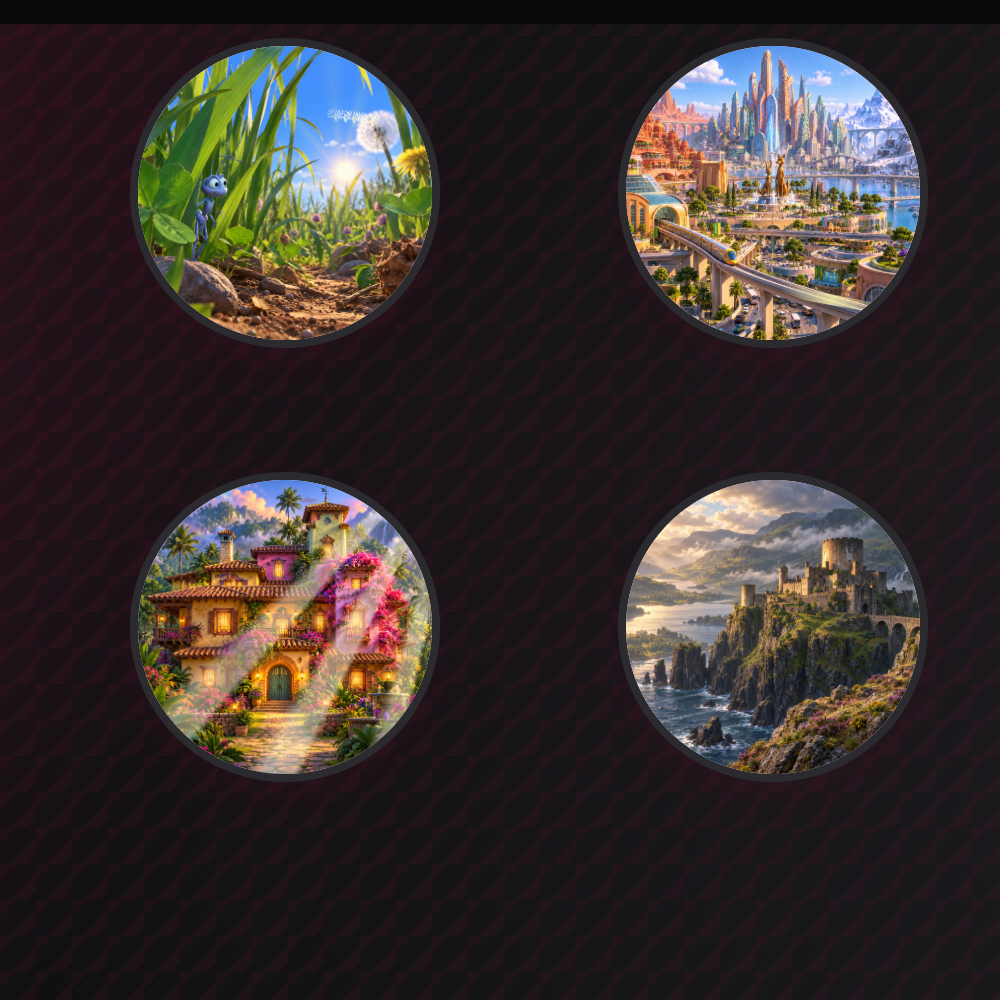
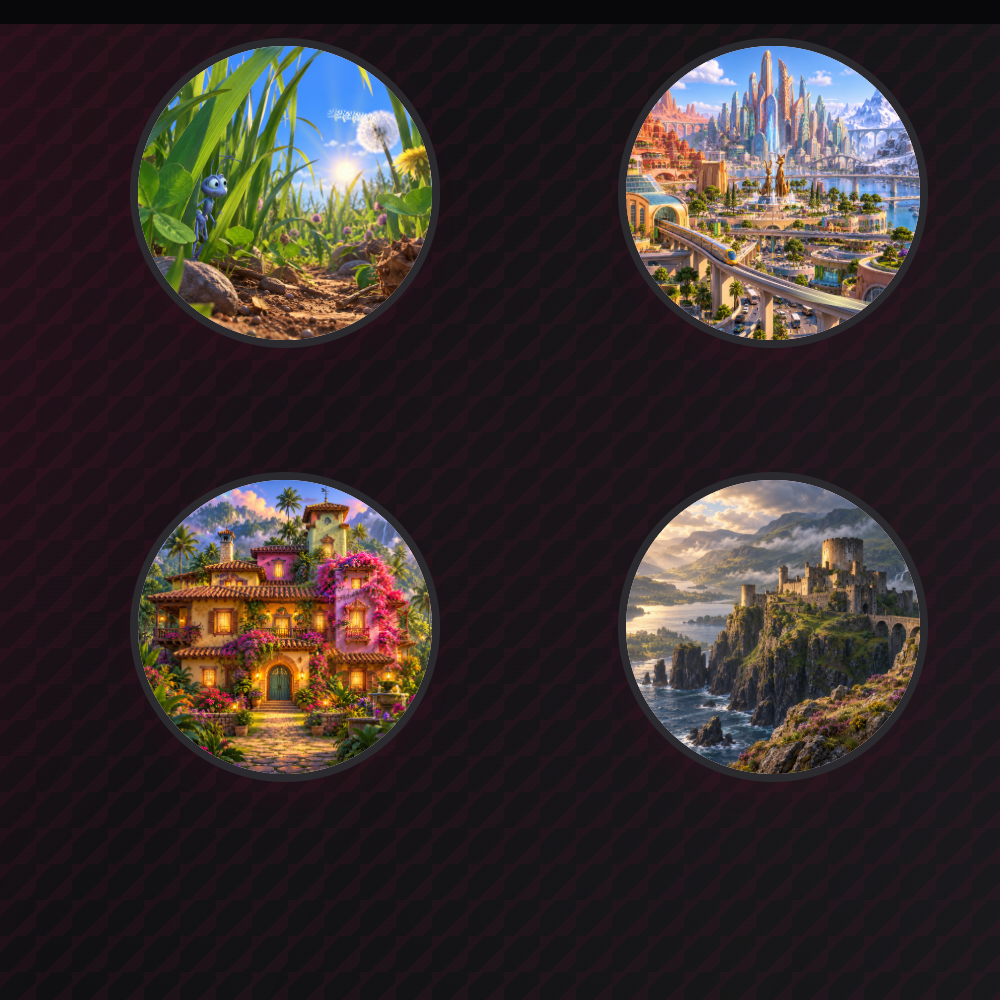
Soften Encanto sun rays and shift lighting to warm gold

Changed region(s): [[0.155, 0.496, 0.434, 0.775]]

diff --git a/scene-motion-tuning.css b/scene-motion-tuning.css
@@ -11,9 +11,9 @@
 
 /* Casita's warm light stays anchored to the painted window openings. */
 .scene-disney-casita .disney-light { background:radial-gradient(ellipse 3.5% 5% at 30% 48%,#fff0af,#ffca6399 40%,transparent),radial-gradient(ellipse 3% 3% at 49% 49%,#fff0af,#ffca6399 40%,transparent),radial-gradient(ellipse 3% 4% at 61% 48%,#fff0af,#ffca6399 40%,transparent),radial-gradient(ellipse 3.5% 5% at 73% 48%,#fff0af,#ffca6399 40%,transparent),radial-gradient(ellipse 2.5% 4% at 25.5% 66%,#fff0af,#ffca6399 40%,transparent),radial-gradient(ellipse 3% 4% at 73% 67%,#fff0af,#ffca6399 40%,transparent),radial-gradient(ellipse 2.5% 3.5% at 48% 31.5%,#fff0af,#ffca6399 40%,transparent),radial-gradient(ellipse 2% 3% at 64% 25%,#fff0af,#ffca6399 40%,transparent),radial-gradient(ellipse 2% 2.5% at 73% 36%,#fff0af,#ffca6399 40%,transparent); mix-blend-mode:screen; animation:casita-window-warmth 4s ease-in-out infinite alternate; }
-.scene-disney-casita .disney-detail { background:conic-gradient(from 180deg at 110% -18%,transparent 0deg 14deg,#fff6dbe6 15deg 18deg,transparent 20deg 28deg,#fff5d9f2 29deg 33deg,transparent 35deg 43deg,#ffeecbe6 44deg 48deg,transparent 50deg); mask-image:linear-gradient(#000 0%,#000 60%,#000b3 82%,transparent 100%); mix-blend-mode:normal; transform-origin:110% -18%; animation:casita-offscreen-rays 6s ease-in-out infinite alternate; }
+.scene-disney-casita .disney-detail { background:conic-gradient(from 180deg at 110% -18%,transparent 0deg 14deg,#efb94f99 16deg 17deg,transparent 20deg 28deg,#f5c45da6 30deg 32deg,transparent 35deg 43deg,#eeb34b99 45deg 47deg,transparent 50deg); mask-image:linear-gradient(#000 0%,#000 45%,#0008 70%,transparent 95%); mix-blend-mode:normal; opacity:.2; transform-origin:110% -18%; animation:casita-offscreen-rays 6s ease-in-out infinite alternate; }
 @keyframes casita-window-warmth { from { opacity:.45; } to { opacity:1; } }
-@keyframes casita-offscreen-rays { from { opacity:.48; rotate:-4deg; } to { opacity:.78; rotate:4deg; } }
+@keyframes casita-offscreen-rays { from { opacity:.16; rotate:-4deg; } to { opacity:.28; rotate:4deg; } }
 
 /* Water-only Highland motion: fixed shoreline masks keep rocks and castle still. */
 .scene-disney-highland-castle .disney-detail { background:repeating-linear-gradient(176deg,transparent 0 5px,#eaf7ff66 6px,transparent 7px 12px); clip-path:polygon(7% 44%,38% 43%,36% 47%,25% 49%,36% 50%,33% 54%,24% 53%,15% 50%,8% 51%,2% 49%,11% 47%); mix-blend-mode:screen; animation:highland-lake-ripples 6s linear infinite; }

diff --git a/index.html b/index.html
@@ -18,7 +18,7 @@
   <link rel="stylesheet" href="disney-oct6-scenes.css?v=20261007-carnival-palace">
 <link rel="stylesheet" href="scene-exterior-frames.css?v=20261007-v5-frame-overlay">
   <link rel="stylesheet" href="minibike-track.css?v=20261008-brighter-sun-v2">
-  <link rel="stylesheet" href="scene-motion-tuning.css?v=20261010-disney-motion-v4">
+  <link rel="stylesheet" href="scene-motion-tuning.css?v=20261010-disney-motion-v5">
   <link rel="stylesheet" href="audubon-zoo.css?v=20261009-v1">
   <link rel="stylesheet" href="collectible-shelf.css?v=20261010-falcon-layer-v47">
 </head>
